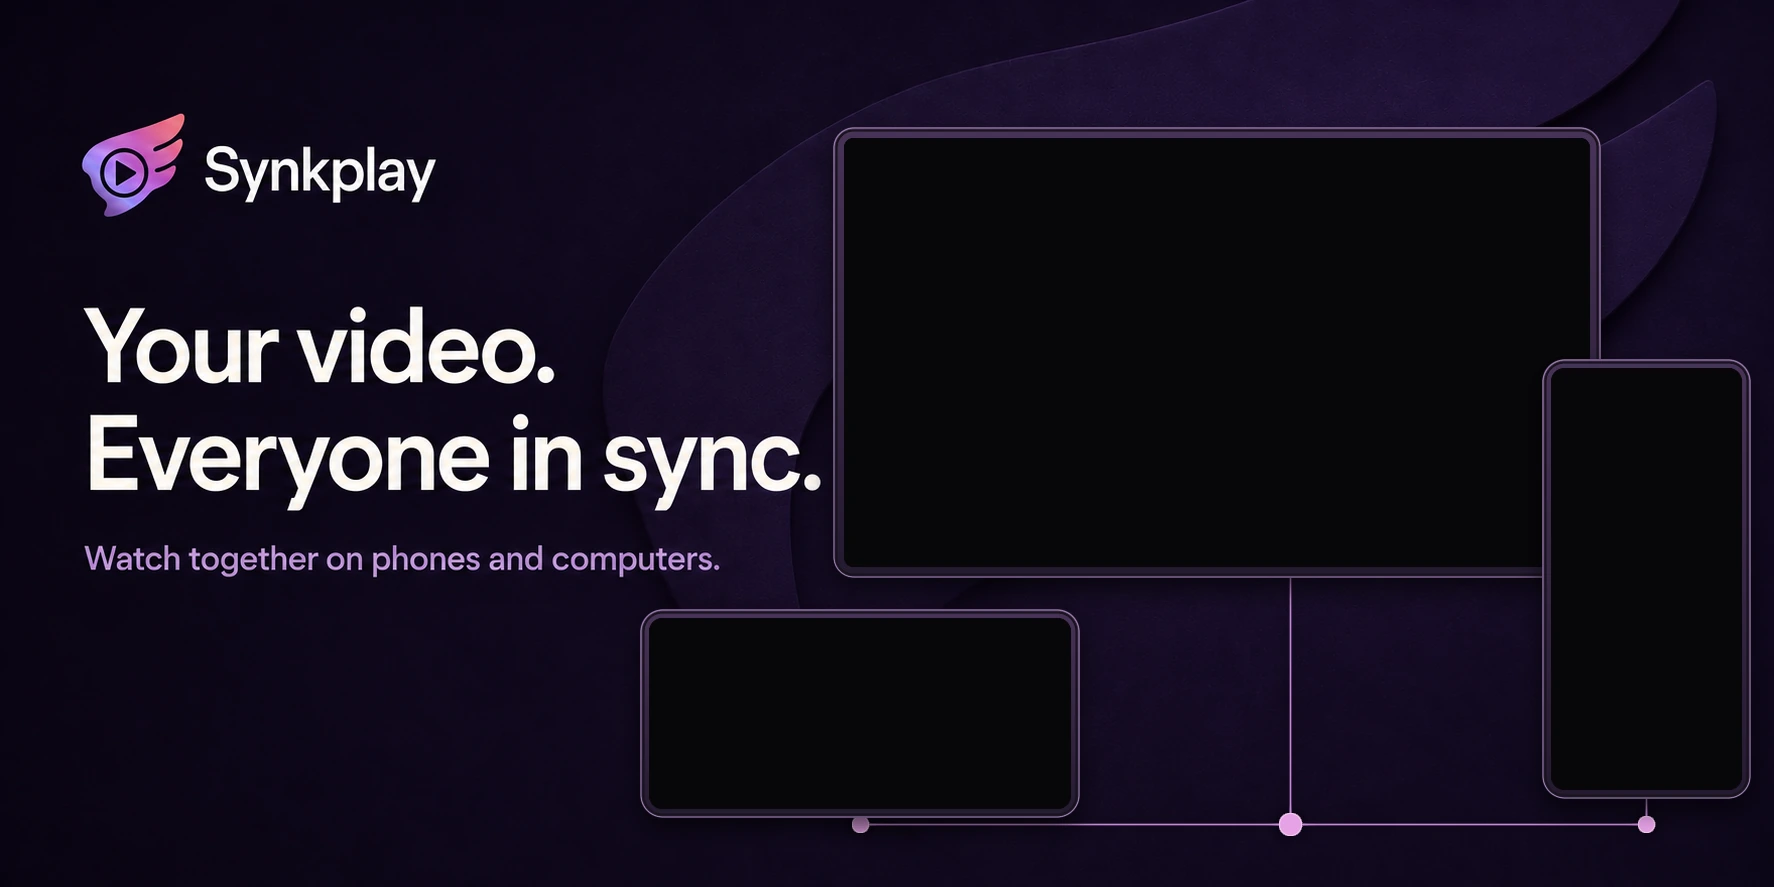
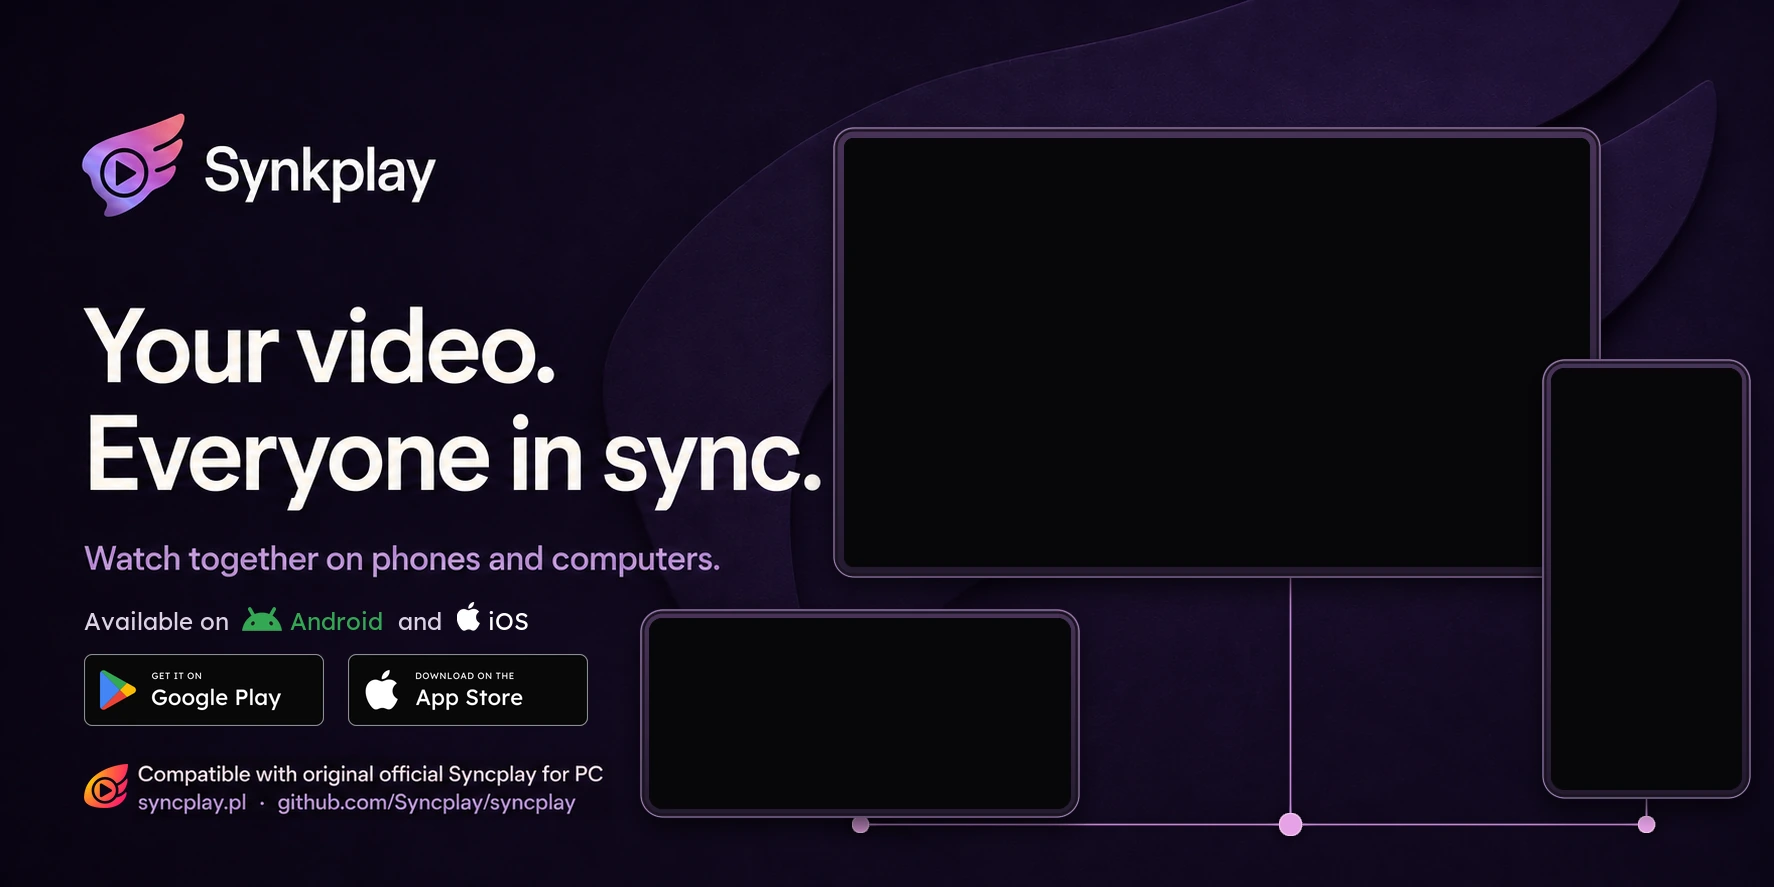
feat(art): Add platform and compatibility notes

Changed region(s): [[0.062, 0.6697, 0.31, 0.8219], [0.031, 0.8523, 0.341, 0.9132], [0.031, 0.761, 0.155, 0.8219]]

diff --git a/art/readme-feature.md b/art/readme-feature.md
@@ -10,7 +10,8 @@ in [screenshots/](screenshots/README.md). The macOS image was supplied by the ma
 bash art/render-readme-feature.sh
 ```
 
-Requires ImageMagick. The script starts with [readme-feature-background.webp](readme-feature-background.webp),
+Requires ImageMagick and librsvg's `rsvg-convert`; the typeface is bundled in the repository.
+The script starts with [readme-feature-background.webp](readme-feature-background.webp),
 resizes each original PNG proportionally, then builds its bezel from the resulting screen
 dimensions. There is no contain box, added padding, crop-to-fill, or stretching. Only the
 screen corners are rounded. The original captures, including the macOS title bar and any
@@ -36,6 +37,87 @@ WebP background avoid repeated compression during rebuilding.
 
 The full screenshots remain available separately in the README. The separate
 [Play Store artwork](play-store/README.md) uses a simpler design.
+
+## Mobile availability, 2026-09-11
+
+The banner says **Available on Android and iOS**, with the current Android head beside
+"Android" and the Apple logo beside "iOS". The Android head and name use **#34A853**,
+matching Google's current [flat Android asset](https://developer.android.com/static/images/brand/android-head_flat.svg).
+The Apple logo and "iOS" use **#FFFFFF** against the dark background.
+"Available on" and "and" stay neutral **#DDD2E5**.
+
+The listings were verified on [Google Play](https://play.google.com/store/apps/details?id=com.yuroyami.syncplay)
+and the [App Store](https://apps.apple.com/us/app/synkplay/id6760187432). Their clickable
+download links remain in the README's Download section; the banner alt text also names
+both platforms and stores.
+
+[render-readme-availability.sh](render-readme-availability.sh), invoked automatically by the
+banner renderer, rebuilds [readme-feature-availability.webp](readme-feature-availability.webp)
+as a transparent 520 × 56 image. It uses the bundled Lexend font, measures the text to set
+the spacing, and renders the actual SVG marks with librsvg. The [Android SVG](third-party/android/head.svg)
+is Google's unchanged download; the [Apple SVG](badges/marks/apple.svg) is the same official-badge
+mark used by the existing App Store button. Logo shapes and colors remain exact source assets.
+
+The availability image is placed at (72, 596). The existing
+[Google Play](badges/google-play.png) and [App Store](badges/app-store.png) badge PNGs are each
+resized proportionally to 240 × 72 and placed at (84, 654) and (348, 654), with a 24 px gap.
+They sit above the compatibility footer and clear of the landscape phone.
+
+Android is a trademark of Google LLC. The Android robot is reproduced or modified from
+work created and shared by Google and used according to terms described in the
+[Creative Commons 3.0 Attribution License](https://creativecommons.org/licenses/by/3.0/).
+See Google's [brand asset source and attribution](https://developer.android.com/distribute/marketing-tools/brand-guidelines).
+
+### Brand styling prompt
+
+The **built-in image-generation tool** previewed this treatment using the current banner
+and original brand marks as references. The final availability line is rendered from the
+SVG sources and font by the script above, preserving exact shapes, colors, and spelling.
+
+Use case: precise-object-edit.
+Reference image 1 is the current finished Synkplay banner and is the edit target.
+Reference image 2 is Google's current flat Android head logo. Reference image 3 is the white Apple logo. Use these exact modern brand shapes.
+Change only the single availability line above the store badges. It currently reads "Available on Android & iOS".
+Replace it with this inline arrangement, all on one line: neutral text "Available on", a small Android head logo, the word "Android", neutral text "and", a small Apple logo, the word "iOS".
+Android logo and the entire word "Android" must both be Android green #34A853. Apple logo and the entire word "iOS" must both be white #FFFFFF. "Available on" and "and" stay muted warm ivory #DDD2E5.
+No literal placeholder parentheses, quotation marks, emoji, or ampersand. Use actual logo shapes, optically aligned beside their text. Keep a compact professional baseline and comfortable small gaps.
+Keep the line left aligned at the same location and retain a similar font size, fitting it into the available width above the two store badges. Do not alter, re-create, recolor, reposition or resize anything else: the existing screenshots, corrected device frames, all store badges, lower compatibility note, original Syncplay logo, background, headline, subtitle and main Synkplay wordmark remain unchanged.
+Output one finished revised banner at its original 1600 by 800 aspect ratio.
+
+## Compatibility footer, 2026-09-11
+
+The lower-left note reads:
+
+> Compatible with original official Syncplay for PC<br>
+> syncplay.pl · github.com/Syncplay/syncplay
+
+The addresses were verified against the [official Syncplay website](https://syncplay.pl/)
+and [repository](https://github.com/Syncplay/syncplay). The banner's README alt text includes
+the note and both addresses.
+
+The renderer adds [readme-feature-footer.webp](readme-feature-footer.webp) at (129, 752),
+then composites the actual [official logo](third-party/syncplay/logo.png) at (84, 764),
+scaled proportionally to 44 × 44. Its orange-red colors and shape are unchanged.
+The logo and accompanying [Apache 2.0 license](third-party/syncplay/LICENSE) were copied from
+[upstream revision 2af7ace347f437d44cd809a65c049e82bb4027fb](https://github.com/Syncplay/syncplay/blob/2af7ace347f437d44cd809a65c049e82bb4027fb/syncplay/resources/syncplay.png).
+
+The **built-in image-generation tool** supplied the footer text. Only its 516 × 76 region
+at (80, 778) was retained, resized proportionally to 490 × 72, and given softly feathered
+edges for compositing. The existing background and device layout remain the same sources.
+The footer is saved as lossless WebP with transparency; the official logo is composited
+separately from its original PNG.
+
+### Footer prompt
+
+Use case: precise-object-edit.
+Edit target: the existing Synkplay 1774 by 887 banner BACKGROUND in image 1.
+Add only a discreet two-line compatibility footer at the bottom left. Keep every existing pixel, all text, branding, logo, abstract plum background, positions, colors and composition elsewhere unchanged. No screens or devices should be added to this background.
+New text, verbatim:
+Line 1: "Compatible with original official Syncplay for PC"
+Line 2: "syncplay.pl  ·  github.com/Syncplay/syncplay"
+Placement is critical: use the same 1774 by 887 coordinate system as the reference. Left-align BOTH text lines at x=138. Line 1 baseline y=779; line 2 baseline y=811. Keep all footer text inside x=138..622 and y=758..818. Line 1 is approximately 19 pixels high in a clean, readable regular humanist sans-serif that matches the existing subheading, colored muted warm ivory #ddd2e5. Line 2 is approximately 17 pixels high, colored soft lilac #b9a1ca. Keep both lines on a single line each, no wrapping. Subtle supporting-note hierarchy, much smaller than the main tagline. No bold box, panel, border, divider, glow or decorative marks.
+Leave the space x=84..125, y=769..811 COMPLETELY EMPTY, retaining the original background there: the actual official Syncplay logo will be composited separately from its original asset.
+Critical: exact spelling and capitalization, especially original Syncplay with a c, website syncplay.pl, and github.com/Syncplay/syncplay. Do not alter the existing Synkplay wordmark with a k. Do not move or change the main headline or subtitle. Preserve 2:1 aspect ratio and output at 1774 by 887 if possible. Output one finished background with the two footer text lines only added.
 
 ## Background repair, 2026-09-11
 

diff --git a/README.MD b/README.MD
@@ -3,7 +3,7 @@
 </p>
 
 <p align="center">
-  <img src="art/readme-feature.webp" width="960" alt="Synkplay banner with Android and macOS screenshots: watch together on phones and computers">
+  <img src="art/readme-feature.webp" width="960" alt="Synkplay banner with Android and macOS screenshots: watch together on phones and computers. Available on Android and iOS through Google Play and the App Store. Compatible with original official Syncplay for PC: syncplay.pl and github.com/Syncplay/syncplay.">
 </p>
 
 <p align="center">
